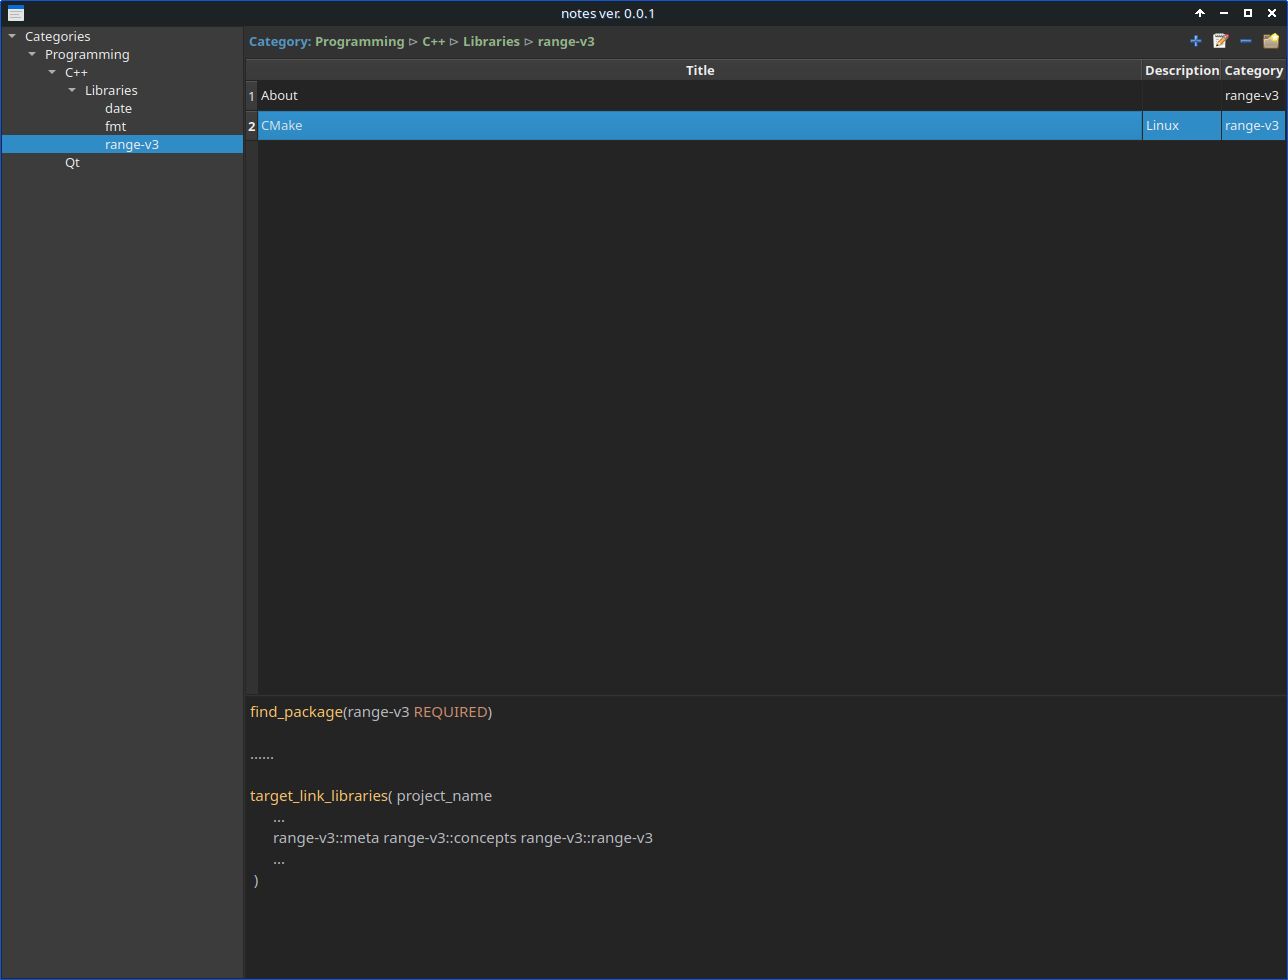
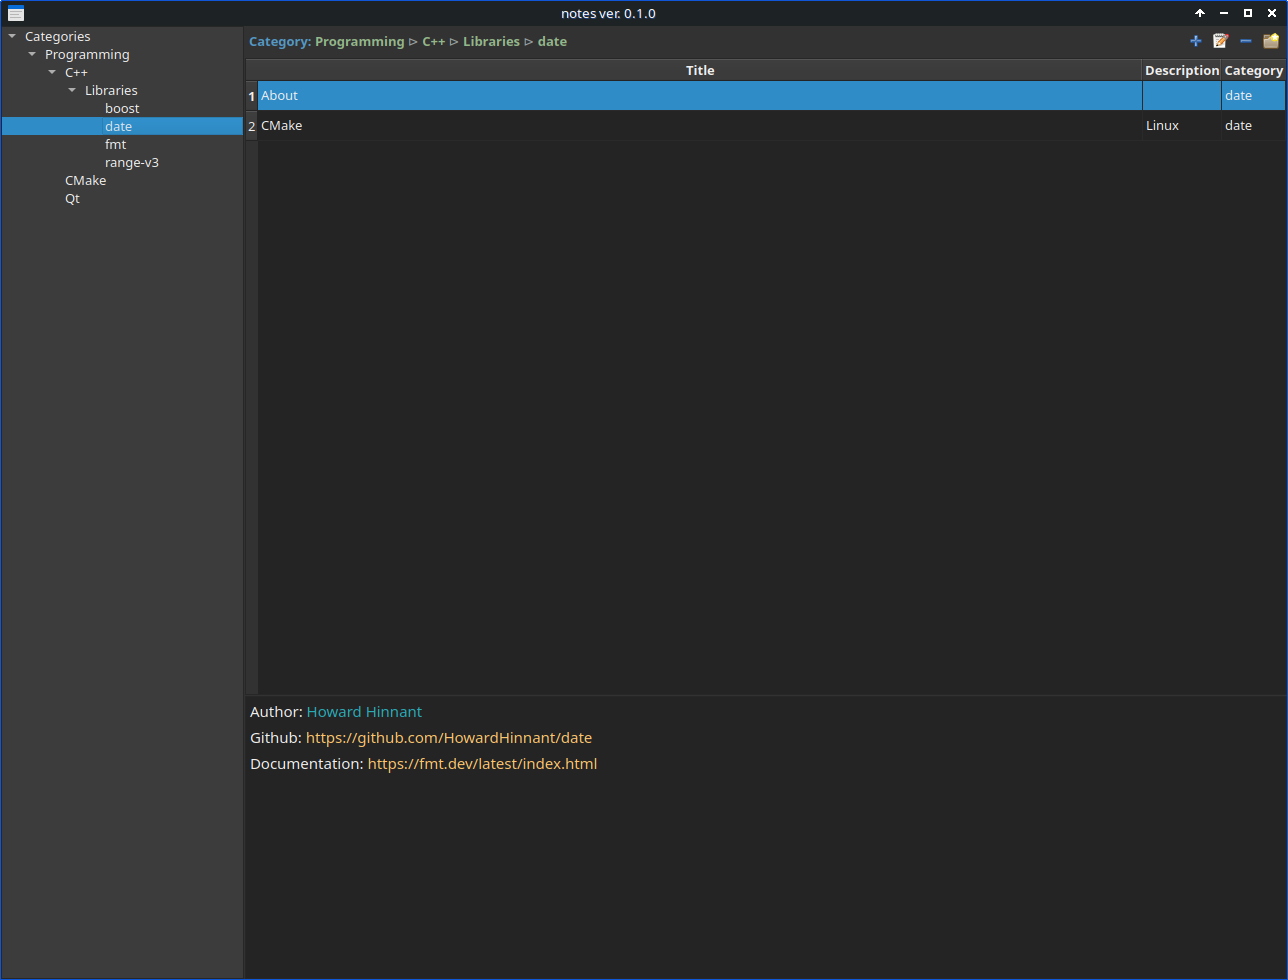
version update

diff --git a/main.cc b/main.cc
@@ -29,6 +29,7 @@
 #include "model/note.hh"
 #include "sqlite/sqlite.hh"
 #include "notes/MainWindow.hh"
+#include "notes/Settings.hh"
 #include <QApplication>
 #include <QDir>
 #include <fmt/core.h>
@@ -67,7 +68,7 @@ int main(int argc, char *argv[]) {
     }
 
     QCoreApplication::setApplicationName("notes");
-    QCoreApplication::setApplicationVersion("0.0.1");
+    QCoreApplication::setApplicationVersion(settings::appVersion().c_str());
     QCoreApplication::setOrganizationName("Piotr Pszczółkowski");
     QCoreApplication::setOrganizationDomain("beesoft.pl");
 
